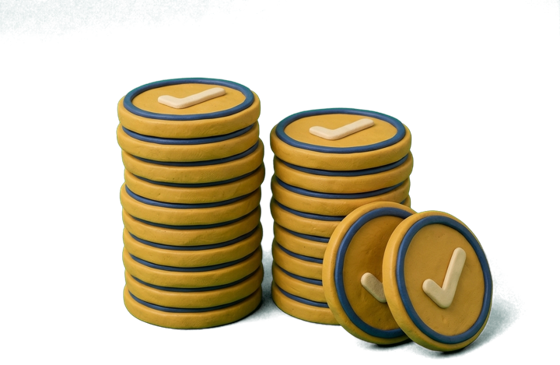
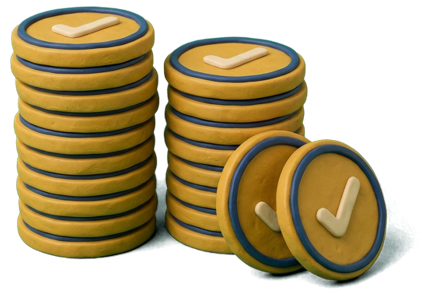
The Standard pack's coins are the size its neighbours are
`pricing-pack-standard.png` still carried its cut-out's residue: 6,656 pixels
of grey-blue haze outside the pile, reaching the canvas corner, so its alpha
bounding box was the whole image and nothing could be measured off it.

The three pack cards render at a locked height, `h-36 w-auto`, which means the
canvas decides how large the art inside it looks. Starter's content fills 95.8%
of its canvas width and 95.7% of its height. Standard's filled 77.5%, so its
coins drew about a fifth smaller than the other two cards' art and the pile
floated with dead space above it.

The haze is cleared by taking the pile's largest connected component and
dilating it 30px, which keeps the soft contact shadow and drops everything
else. The cleaned content is then re-canvassed to 431x296 to match Starter's
fill fractions, and the declared intrinsic size follows it, because Next sizes
the box from the ratio it is given rather than from the file.

It is still the widest of the three, 209px against 128 and 136. That
arrangement is horizontal and no canvas fixes it; only different art would.

diff --git a/src/app/(th)/pricing/page.tsx b/src/app/(th)/pricing/page.tsx
@@ -83,7 +83,7 @@ const FREE_PRODUCT_SLUGS = ["cv-check", "job-search-dashboard"] as const;
 /** The pile each pack opens with: the three sizes of the same coin. */
 const PACK_ART: Record<string, { src: string; w: number; h: number }> = {
   starter: { src: "/pricing/pricing-pack-starter.png", w: 481, h: 539 },
-  standard: { src: "/pricing/pricing-pack-standard.png", w: 560, h: 365 },
+  standard: { src: "/pricing/pricing-pack-standard.png", w: 431, h: 296 },
   serious: { src: "/pricing/pricing-pack-serious.png", w: 528, h: 560 },
 };
 
